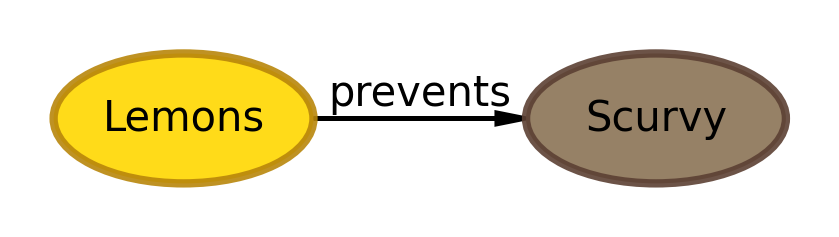
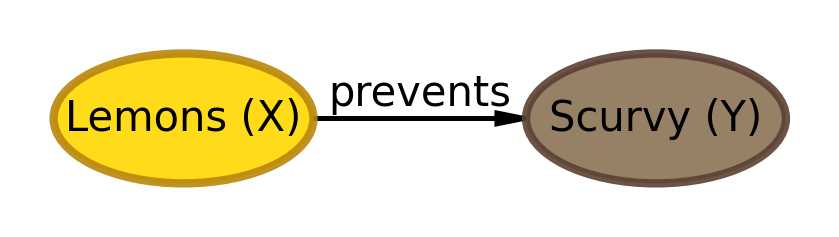
Added DAG 2

Changed region(s): [[0.062, 0.4135, 0.3719, 0.5612], [0.6508, 0.4135, 0.9297, 0.5907]]

diff --git a/index.html b/index.html
@@ -210,7 +210,7 @@ Ready to create beautiful DAGs!</code></pre>
 <span id="cb3-3"><a href="#cb3-3" aria-hidden="true" tabindex="-1"></a>pgm <span class="op">=</span> daft.PGM(dpi<span class="op">=</span><span class="dv">150</span>, alternate_style<span class="op">=</span><span class="st">"outer"</span>)</span>
 <span id="cb3-4"><a href="#cb3-4" aria-hidden="true" tabindex="-1"></a></span>
 <span id="cb3-5"><a href="#cb3-5" aria-hidden="true" tabindex="-1"></a><span class="co"># Lemons node (yellow)</span></span>
-<span id="cb3-6"><a href="#cb3-6" aria-hidden="true" tabindex="-1"></a>pgm.add_node(<span class="st">"lemons"</span>, <span class="st">"Lemons"</span>, <span class="dv">1</span>, <span class="dv">1</span>, aspect<span class="op">=</span><span class="dv">2</span>, scale<span class="op">=</span><span class="fl">1.1</span>,</span>
+<span id="cb3-6"><a href="#cb3-6" aria-hidden="true" tabindex="-1"></a>pgm.add_node(<span class="st">"lemons"</span>, <span class="st">"Lemons (X)"</span>, <span class="dv">1</span>, <span class="dv">1</span>, aspect<span class="op">=</span><span class="dv">2</span>, scale<span class="op">=</span><span class="fl">1.1</span>,</span>
 <span id="cb3-7"><a href="#cb3-7" aria-hidden="true" tabindex="-1"></a>             plot_params<span class="op">=</span>{</span>
 <span id="cb3-8"><a href="#cb3-8" aria-hidden="true" tabindex="-1"></a>                 <span class="st">'facecolor'</span>: <span class="st">'gold'</span>,</span>
 <span id="cb3-9"><a href="#cb3-9" aria-hidden="true" tabindex="-1"></a>                 <span class="st">'edgecolor'</span>: <span class="st">'darkgoldenrod'</span>,</span>
@@ -218,7 +218,7 @@ Ready to create beautiful DAGs!</code></pre>
 <span id="cb3-11"><a href="#cb3-11" aria-hidden="true" tabindex="-1"></a>                 <span class="st">'alpha'</span>: <span class="fl">0.9</span>,</span>
 <span id="cb3-12"><a href="#cb3-12" aria-hidden="true" tabindex="-1"></a>             })</span>
 <span id="cb3-13"><a href="#cb3-13" aria-hidden="true" tabindex="-1"></a><span class="co"># Scurvy node (sickly/unpleasant color)</span></span>
-<span id="cb3-14"><a href="#cb3-14" aria-hidden="true" tabindex="-1"></a>pgm.add_node(<span class="st">"scurvy"</span>, <span class="st">"Scurvy"</span>, <span class="dv">3</span>, <span class="dv">1</span>, aspect<span class="op">=</span><span class="dv">2</span>, scale<span class="op">=</span><span class="fl">1.1</span>,</span>
+<span id="cb3-14"><a href="#cb3-14" aria-hidden="true" tabindex="-1"></a>pgm.add_node(<span class="st">"scurvy"</span>, <span class="st">"Scurvy (Y)"</span>, <span class="dv">3</span>, <span class="dv">1</span>, aspect<span class="op">=</span><span class="dv">2</span>, scale<span class="op">=</span><span class="fl">1.1</span>,</span>
 <span id="cb3-15"><a href="#cb3-15" aria-hidden="true" tabindex="-1"></a>             plot_params<span class="op">=</span>{</span>
 <span id="cb3-16"><a href="#cb3-16" aria-hidden="true" tabindex="-1"></a>                 <span class="st">'facecolor'</span>: <span class="st">'#8B7355'</span>,</span>
 <span id="cb3-17"><a href="#cb3-17" aria-hidden="true" tabindex="-1"></a>                 <span class="st">'edgecolor'</span>: <span class="st">'#5C4033'</span>,</span>
@@ -242,13 +242,46 @@ Ready to create beautiful DAGs!</code></pre>
 <p><strong>Historical Context:</strong> Over time, people came to believe it was the acid in lemons that killed bacteria which was causing scurvy. This led to lemons being replaced by limes (cheaper but less Vitamin C) or just using acids like vinegar, causing scurvy to return.</p>
 <p><strong>Your Task:</strong> Recreate this DAG showing the incorrect understanding of the data generating process.</p>
 <p><strong>Reference Image:</strong> <img src="https://raw.githubusercontent.com/flyaflya/persuasive/8aaffd0a3c967d0a26f506232f998130847be3e8/images/scurvy.png" class="img-fluid"></p>
-<div id="dag-2-misguided" class="cell" data-execution_count="3">
-<div class="code-copy-outer-scaffold"><div class="sourceCode cell-code" id="cb4"><pre class="sourceCode python code-with-copy"><code class="sourceCode python"><span id="cb4-1"><a href="#cb4-1" aria-hidden="true" tabindex="-1"></a><span class="co"># </span><span class="al">TODO</span><span class="co">: Replace this placeholder with your DAFT code</span></span>
-<span id="cb4-2"><a href="#cb4-2" aria-hidden="true" tabindex="-1"></a><span class="co"># Create a DAG showing the misguided belief: Acid → Bacteria Death → Scurvy Prevention</span></span>
-<span id="cb4-3"><a href="#cb4-3" aria-hidden="true" tabindex="-1"></a></span>
-<span id="cb4-4"><a href="#cb4-4" aria-hidden="true" tabindex="-1"></a><span class="co"># Your code here - recreate the DAG from the reference image</span></span>
-<span id="cb4-5"><a href="#cb4-5" aria-hidden="true" tabindex="-1"></a><span class="co"># This DAG should show the incorrect causal chain</span></span>
-<span id="cb4-6"><a href="#cb4-6" aria-hidden="true" tabindex="-1"></a><span class="co"># Use different colors or styling to indicate this is the wrong understanding</span></span></code></pre></div><button title="Copy to Clipboard" class="code-copy-button"><i class="bi"></i></button></div>
+<div id="cell-dag-2-misguided" class="cell" data-execution_count="3">
+<div class="code-copy-outer-scaffold"><div class="sourceCode cell-code" id="cb4"><pre class="sourceCode python code-with-copy"><code class="sourceCode python"><span id="cb4-1"><a href="#cb4-1" aria-hidden="true" tabindex="-1"></a><span class="im">import</span> daft</span>
+<span id="cb4-2"><a href="#cb4-2" aria-hidden="true" tabindex="-1"></a></span>
+<span id="cb4-3"><a href="#cb4-3" aria-hidden="true" tabindex="-1"></a>pgm <span class="op">=</span> daft.PGM(dpi<span class="op">=</span><span class="dv">150</span>, alternate_style<span class="op">=</span><span class="st">"outer"</span>)</span>
+<span id="cb4-4"><a href="#cb4-4" aria-hidden="true" tabindex="-1"></a></span>
+<span id="cb4-5"><a href="#cb4-5" aria-hidden="true" tabindex="-1"></a><span class="co"># Acid node (green) - spaced left</span></span>
+<span id="cb4-6"><a href="#cb4-6" aria-hidden="true" tabindex="-1"></a>pgm.add_node(<span class="st">"acid"</span>, <span class="st">"Acid (X)"</span>, <span class="dv">0</span>, <span class="dv">1</span>, aspect<span class="op">=</span><span class="dv">2</span>, scale<span class="op">=</span><span class="fl">1.1</span>,</span>
+<span id="cb4-7"><a href="#cb4-7" aria-hidden="true" tabindex="-1"></a>             plot_params<span class="op">=</span>{</span>
+<span id="cb4-8"><a href="#cb4-8" aria-hidden="true" tabindex="-1"></a>                 <span class="st">'facecolor'</span>: <span class="st">'palegreen'</span>,</span>
+<span id="cb4-9"><a href="#cb4-9" aria-hidden="true" tabindex="-1"></a>                 <span class="st">'edgecolor'</span>: <span class="st">'darkgreen'</span>,</span>
+<span id="cb4-10"><a href="#cb4-10" aria-hidden="true" tabindex="-1"></a>                 <span class="st">'linewidth'</span>: <span class="dv">2</span>,</span>
+<span id="cb4-11"><a href="#cb4-11" aria-hidden="true" tabindex="-1"></a>                 <span class="st">'alpha'</span>: <span class="fl">0.9</span>,</span>
+<span id="cb4-12"><a href="#cb4-12" aria-hidden="true" tabindex="-1"></a>             })</span>
+<span id="cb4-13"><a href="#cb4-13" aria-hidden="true" tabindex="-1"></a><span class="co"># Bacteria in food node - center</span></span>
+<span id="cb4-14"><a href="#cb4-14" aria-hidden="true" tabindex="-1"></a>pgm.add_node(<span class="st">"bacteria"</span>, <span class="st">"Bacteria</span><span class="ch">\n</span><span class="st">in food (Y)"</span>, <span class="fl">2.5</span>, <span class="dv">1</span>, aspect<span class="op">=</span><span class="dv">2</span>, scale<span class="op">=</span><span class="fl">1.1</span>,</span>
+<span id="cb4-15"><a href="#cb4-15" aria-hidden="true" tabindex="-1"></a>             plot_params<span class="op">=</span>{</span>
+<span id="cb4-16"><a href="#cb4-16" aria-hidden="true" tabindex="-1"></a>                 <span class="st">'facecolor'</span>: <span class="st">'lavender'</span>,</span>
+<span id="cb4-17"><a href="#cb4-17" aria-hidden="true" tabindex="-1"></a>                 <span class="st">'edgecolor'</span>: <span class="st">'purple'</span>,</span>
+<span id="cb4-18"><a href="#cb4-18" aria-hidden="true" tabindex="-1"></a>                 <span class="st">'linewidth'</span>: <span class="dv">2</span>,</span>
+<span id="cb4-19"><a href="#cb4-19" aria-hidden="true" tabindex="-1"></a>                 <span class="st">'alpha'</span>: <span class="fl">0.9</span>,</span>
+<span id="cb4-20"><a href="#cb4-20" aria-hidden="true" tabindex="-1"></a>             })</span>
+<span id="cb4-21"><a href="#cb4-21" aria-hidden="true" tabindex="-1"></a><span class="co"># Scurvy node (same as DAG 1) - spaced right</span></span>
+<span id="cb4-22"><a href="#cb4-22" aria-hidden="true" tabindex="-1"></a>pgm.add_node(<span class="st">"scurvy"</span>, <span class="st">"Scurvy (Z)"</span>, <span class="dv">5</span>, <span class="dv">1</span>, aspect<span class="op">=</span><span class="dv">2</span>, scale<span class="op">=</span><span class="fl">1.1</span>,</span>
+<span id="cb4-23"><a href="#cb4-23" aria-hidden="true" tabindex="-1"></a>             plot_params<span class="op">=</span>{</span>
+<span id="cb4-24"><a href="#cb4-24" aria-hidden="true" tabindex="-1"></a>                 <span class="st">'facecolor'</span>: <span class="st">'#8B7355'</span>,</span>
+<span id="cb4-25"><a href="#cb4-25" aria-hidden="true" tabindex="-1"></a>                 <span class="st">'edgecolor'</span>: <span class="st">'#5C4033'</span>,</span>
+<span id="cb4-26"><a href="#cb4-26" aria-hidden="true" tabindex="-1"></a>                 <span class="st">'linewidth'</span>: <span class="dv">2</span>,</span>
+<span id="cb4-27"><a href="#cb4-27" aria-hidden="true" tabindex="-1"></a>                 <span class="st">'alpha'</span>: <span class="fl">0.9</span>,</span>
+<span id="cb4-28"><a href="#cb4-28" aria-hidden="true" tabindex="-1"></a>             })</span>
+<span id="cb4-29"><a href="#cb4-29" aria-hidden="true" tabindex="-1"></a>pgm.add_edge(<span class="st">"acid"</span>, <span class="st">"bacteria"</span>, label<span class="op">=</span><span class="st">"kills"</span>)</span>
+<span id="cb4-30"><a href="#cb4-30" aria-hidden="true" tabindex="-1"></a>pgm.add_edge(<span class="st">"bacteria"</span>, <span class="st">"scurvy"</span>, label<span class="op">=</span><span class="st">"causes"</span>)</span>
+<span id="cb4-31"><a href="#cb4-31" aria-hidden="true" tabindex="-1"></a></span>
+<span id="cb4-32"><a href="#cb4-32" aria-hidden="true" tabindex="-1"></a>pgm.render()</span></code></pre></div><button title="Copy to Clipboard" class="code-copy-button"><i class="bi"></i></button></div>
+<div class="cell-output cell-output-display">
+<div>
+<figure class="figure">
+<p><img src="index_files/figure-html/dag-2-misguided-output-1.png" id="dag-2-misguided" width="774" height="118" class="figure-img"></p>
+</figure>
+</div>
+</div>
 </div>
 </section>
 <section id="dag-3-the-1928-understanding-complete-and-correct" class="level3">
